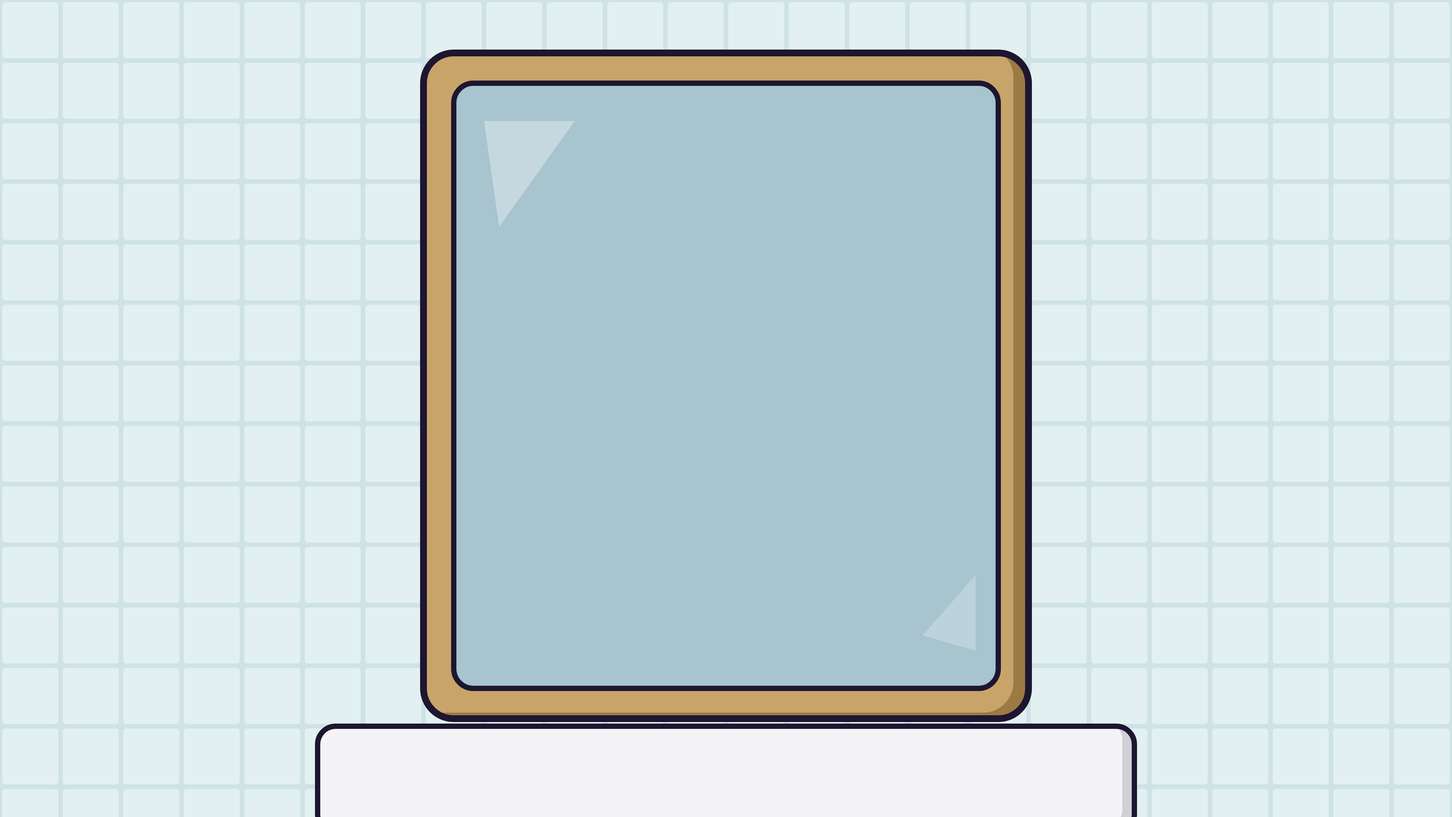
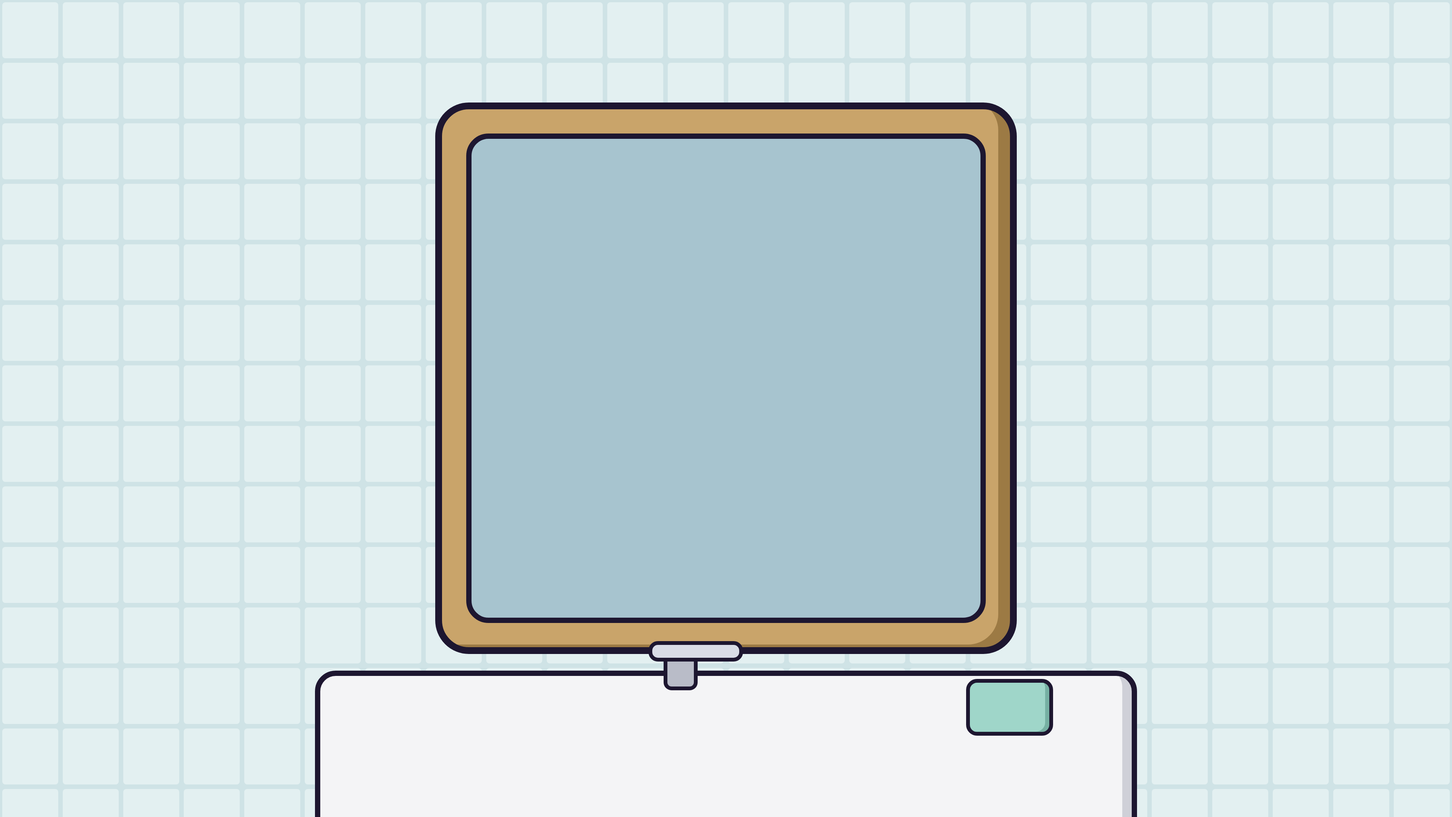
Crypto EP1: revisión de calidad (cara, espejo, despertador, taza, HUD, Satoshi, monitores)
Claude-Session: https://claude.ai/code/session_01NdJoAuEd2J5WPj3QMUukBN

Changed region(s): [[0.2188, 0.062, 0.7812, 0.8995]]

diff --git a/crypto-pov/layers/_tmp.html b/crypto-pov/layers/_tmp.html
@@ -7,4 +7,4 @@
 <filter id="blur40" x="-50%" y="-50%" width="200%" height="200%"><feGaussianBlur stdDeviation="40"/></filter>
 <filter id="drop" x="-10%" y="-10%" width="130%" height="130%"><feDropShadow dx="0" dy="14" stdDeviation="12" flood-color="#000" flood-opacity="0.35"/></filter>
 <filter id="tex" x="0" y="0" width="100%" height="100%"><feTurbulence type="fractalNoise" baseFrequency="0.035" numOctaves="4" seed="8"/><feColorMatrix type="matrix" values="0 0 0 0 0  0 0 0 0 0  0 0 0 0 0  0 0 0 0.16 0"/><feComposite in2="SourceGraphic" operator="in"/></filter>
-</defs><clipPath id="c28"><path d="M90 1100 L100 820 Q110 660 260 620 Q360 596 460 620 Q610 660 620 820 L630 1100Z"/></clipPath><g clip-path="url(#c28)"><path d="M90 1100 L100 820 Q110 660 260 620 Q360 596 460 620 Q610 660 620 820 L630 1100Z" fill="#8a2f29"/><g transform="translate(-50,-10)"><path d="M90 1100 L100 820 Q110 660 260 620 Q360 596 460 620 Q610 660 620 820 L630 1100Z" fill="#b9463d"/></g><g transform="translate(-110.00000000000001,-22.0)" opacity="0.55"><path d="M90 1100 L100 820 Q110 660 260 620 Q360 596 460 620 Q610 660 620 820 L630 1100Z" fill="#d65c51"/></g><g transform="translate(-70.0,-14.0)"><path d="M90 1100 L100 820 Q110 660 260 620 Q360 596 460 620 Q610 660 620 820 L630 1100Z" fill="#b9463d"/></g></g><path d="M90 1100 L100 820 Q110 660 260 620 Q360 596 460 620 Q610 660 620 820 L630 1100Z" fill="none" stroke="#1d1630" stroke-width="8" stroke-linejoin="round"/><clipPath id="plaid"><path d="M90 1100 L100 820 Q110 660 260 620 Q360 596 460 620 Q610 660 620 820 L630 1100Z"/></clipPath><g clip-path="url(#plaid)"><path d="M140 600 L140 1100" stroke="#7a2520" stroke-width="10" opacity="0.5"/><path d="M210 600 L210 1100" stroke="#7a2520" stroke-width="10" opacity="0.5"/><path d="M280 600 L280 1100" stroke="#7a2520" stroke-width="10" opacity="0.5"/><path d="M350 600 L350 1100" stroke="#7a2520" stroke-width="10" opacity="0.5"/><path d="M420 600 L420 1100" stroke="#7a2520" stroke-width="10" opacity="0.5"/><path d="M490 600 L490 1100" stroke="#7a2520" stroke-width="10" opacity="0.5"/><path d="M560 600 L560 1100" stroke="#7a2520" stroke-width="10" opacity="0.5"/><path d="M80 680 L640 680" stroke="#7a2520" stroke-width="10" opacity="0.5"/><path d="M80 750 L640 750" stroke="#7a2520" stroke-width="10" opacity="0.5"/><path d="M80 820 L640 820" stroke="#7a2520" stroke-width="10" opacity="0.5"/><path d="M80 890 L640 890" stroke="#7a2520" stroke-width="10" opacity="0.5"/><path d="M80 960 L640 960" stroke="#7a2520" stroke-width="10" opacity="0.5"/><path d="M80 1030 L640 1030" stroke="#7a2520" stroke-width="10" opacity="0.5"/></g><path d="M90 1100 L100 820 Q110 660 260 620 Q360 596 460 620 Q610 660 620 820 L630 1100Z" fill="none" stroke="#1d1630" stroke-width="8"/><clipPath id="c29"><path d="M300 620 L360 700 L420 620 L400 600 L360 650 L320 600Z"/></clipPath><g clip-path="url(#c29)"><path d="M300 620 L360 700 L420 620 L400 600 L360 650 L320 600Z" fill="#cfc7b4"/><g transform="translate(-8,0)"><path d="M300 620 L360 700 L420 620 L400 600 L360 650 L320 600Z" fill="#f1ece0"/></g></g><path d="M300 620 L360 700 L420 620 L400 600 L360 650 L320 600Z" fill="none" stroke="#1d1630" stroke-width="6" stroke-linejoin="round"/><g transform="translate(10,140)"><clipPath id="c30"><rect x="305" y="380" width="90" height="110" rx="10"/></clipPath><g clip-path="url(#c30)"><rect x="305" y="380" width="90" height="110" rx="10" fill="#b97b54"/><g transform="translate(-14,0)"><rect x="305" y="380" width="90" height="110" rx="10" fill="#d8996f"/></g></g><rect x="305" y="380" width="90" height="110" rx="10" fill="none" stroke="#1d1630" stroke-width="6" stroke-linejoin="round"/><clipPath id="c31"><ellipse cx="233.60000000000002" cy="322" rx="28" ry="38"/></clipPath><g clip-path="url(#c31)"><ellipse cx="233.60000000000002" cy="322" rx="28" ry="38" fill="#d8996f"/><g transform="translate(-10,-4)"><ellipse cx="233.60000000000002" cy="322" rx="28" ry="38" fill="#f3c29b"/></g></g><ellipse cx="233.60000000000002" cy="322" rx="28" ry="38" fill="none" stroke="#1d1630" stroke-width="6" stroke-linejoin="round"/><path d="M225.60000000000002 308 Q239.60000000000002 322 227.60000000000002 338" stroke="#d8996f" stroke-width="6" fill="none"/><clipPath id="c32"><ellipse cx="466.4" cy="322" rx="28" ry="38"/></clipPath><g clip-path="url(#c32)"><ellipse cx="466.4" cy="322" rx="28" ry="38" fill="#d8996f"/><g transform="translate(10,-4)"><ellipse cx="466.4" cy="322" rx="28" ry="38" fill="#f3c29b"/></g></g><ellipse cx="466.4" cy="322" rx="28" ry="38" fill="none" stroke="#1d1630" stroke-width="6" stroke-linejoin="round"/><path d="M474.4 308 Q460.4 322 472.4 338" stroke="#d8996f" stroke-width="6" fill="none"/><clipPath id="c33"><ellipse cx="350" cy="310" rx="120" ry="132.0"/></clipPath><g clip-path="url(#c33)"><ellipse cx="350" cy="310" rx="120" ry="132.0" fill="#d8996f"/><g transform="translate(-34,-16)"><ellipse cx="350" cy="310" rx="120" ry="132.0" fill="#f3c29b"/></g><g transform="translate(-74.80000000000001,-35.2)" opacity="0.55"><ellipse cx="350" cy="310" rx="120" ry="132.0" fill="#ffdcbf"/></g><g transform="translate(-47.599999999999994,-22.4)"><ellipse cx="350" cy="310" rx="120" ry="132.0" fill="#f3c29b"/></g></g><ellipse cx="350" cy="310" rx="120" ry="132.0" fill="none" stroke="#1d1630" stroke-width="7" stroke-linejoin="round"/><clipPath id="c34"><path d="M232 300 Q226 200 280 170 L300 250 Q270 260 262 320Z"/></clipPath><g clip-path="url(#c34)"><path d="M232 300 Q226 200 280 170 L300 250 Q270 260 262 320Z" fill="#4b4b52"/><g transform="translate(8,0)"><path d="M232 300 Q226 200 280 170 L300 250 Q270 260 262 320Z" fill="#6b6b72"/></g></g><path d="M232 300 Q226 200 280 170 L300 250 Q270 260 262 320Z" fill="none" stroke="#1d1630" stroke-width="6" stroke-linejoin="round"/><clipPath id="c35"><path d="M468 300 Q474 200 420 170 L400 250 Q430 260 438 320Z"/></clipPath><g clip-path="url(#c35)"><path d="M468 300 Q474 200 420 170 L400 250 Q430 260 438 320Z" fill="#4b4b52"/><g transform="translate(-8,0)"><path d="M468 300 Q474 200 420 170 L400 250 Q430 260 438 320Z" fill="#6b6b72"/></g></g><path d="M468 300 Q474 200 420 170 L400 250 Q430 260 438 320Z" fill="none" stroke="#1d1630" stroke-width="6" stroke-linejoin="round"/><path d="M290 190 Q350 170 410 190" stroke="#6b6b72" stroke-width="10" fill="none" stroke-linecap="round"/><path d="M286 314 Q305 296 324 314 M376 314 Q395 296 414 314" stroke="#1d1630" stroke-width="8" fill="none" stroke-linecap="round"/><path d="M278 268 Q305 252 334 262 M366 262 Q395 252 422 268" stroke="#4b4b52" stroke-width="11" fill="none" stroke-linecap="round"/><path d="M296 398 Q350 480 404 398Z" fill="#7a2a2a" stroke="#1d1630" stroke-width="7"/><path d="M310 404 L390 404" stroke="#fff" stroke-width="10"/><path d="M262 340 Q250 360 256 380" stroke="#9fdcff" stroke-width="6" fill="none"/><rect x="268" y="288" width="74" height="54" rx="14" fill="#fff" fill-opacity="0.15" stroke="#1d1630" stroke-width="6"/><rect x="358" y="288" width="74" height="54" rx="14" fill="#fff" fill-opacity="0.15" stroke="#1d1630" stroke-width="6"/><path d="M342 312 L358 312" stroke="#1d1630" stroke-width="6"/><clipPath id="c36"><path d="M346 326 Q376 366 356 386 Q338 392 328 380 Q332 356 346 326Z"/></clipPath><g clip-path="url(#c36)"><path d="M346 326 Q376 366 356 386 Q338 392 328 380 Q332 356 346 326Z" fill="#d8996f"/><g transform="translate(-6,-4)"><path d="M346 326 Q376 366 356 386 Q338 392 328 380 Q332 356 346 326Z" fill="#f3c29b"/></g></g><path d="M346 326 Q376 366 356 386 Q338 392 328 380 Q332 356 346 326Z" fill="none" stroke="#1d1630" stroke-width="5" stroke-linejoin="round"/><clipPath id="c37"><path d="M300 380 Q350 360 400 380 Q380 396 350 390 Q320 396 300 380Z"/></clipPath><g clip-path="url(#c37)"><path d="M300 380 Q350 360 400 380 Q380 396 350 390 Q320 396 300 380Z" fill="#4b4b52"/><g transform="translate(-6,-2)"><path d="M300 380 Q350 360 400 380 Q380 396 350 390 Q320 396 300 380Z" fill="#6b6b72"/></g></g><path d="M300 380 Q350 360 400 380 Q380 396 350 390 Q320 396 300 380Z" fill="none" stroke="#1d1630" stroke-width="5" stroke-linejoin="round"/></g></svg></body></html>
+</defs><clipPath id="c11"><path d="M90 1100 L100 820 Q110 660 260 620 Q360 596 460 620 Q610 660 620 820 L630 1100Z"/></clipPath><g clip-path="url(#c11)"><path d="M90 1100 L100 820 Q110 660 260 620 Q360 596 460 620 Q610 660 620 820 L630 1100Z" fill="#8a2f29"/><g transform="translate(-50,-10)"><path d="M90 1100 L100 820 Q110 660 260 620 Q360 596 460 620 Q610 660 620 820 L630 1100Z" fill="#b9463d"/></g><g transform="translate(-110.00000000000001,-22.0)" opacity="0.55"><path d="M90 1100 L100 820 Q110 660 260 620 Q360 596 460 620 Q610 660 620 820 L630 1100Z" fill="#d65c51"/></g><g transform="translate(-70.0,-14.0)"><path d="M90 1100 L100 820 Q110 660 260 620 Q360 596 460 620 Q610 660 620 820 L630 1100Z" fill="#b9463d"/></g></g><path d="M90 1100 L100 820 Q110 660 260 620 Q360 596 460 620 Q610 660 620 820 L630 1100Z" fill="none" stroke="#1d1630" stroke-width="8" stroke-linejoin="round"/><clipPath id="plaid"><path d="M90 1100 L100 820 Q110 660 260 620 Q360 596 460 620 Q610 660 620 820 L630 1100Z"/></clipPath><g clip-path="url(#plaid)"><path d="M140 600 L140 1100" stroke="#7a2520" stroke-width="10" opacity="0.5"/><path d="M210 600 L210 1100" stroke="#7a2520" stroke-width="10" opacity="0.5"/><path d="M280 600 L280 1100" stroke="#7a2520" stroke-width="10" opacity="0.5"/><path d="M350 600 L350 1100" stroke="#7a2520" stroke-width="10" opacity="0.5"/><path d="M420 600 L420 1100" stroke="#7a2520" stroke-width="10" opacity="0.5"/><path d="M490 600 L490 1100" stroke="#7a2520" stroke-width="10" opacity="0.5"/><path d="M560 600 L560 1100" stroke="#7a2520" stroke-width="10" opacity="0.5"/><path d="M80 680 L640 680" stroke="#7a2520" stroke-width="10" opacity="0.5"/><path d="M80 750 L640 750" stroke="#7a2520" stroke-width="10" opacity="0.5"/><path d="M80 820 L640 820" stroke="#7a2520" stroke-width="10" opacity="0.5"/><path d="M80 890 L640 890" stroke="#7a2520" stroke-width="10" opacity="0.5"/><path d="M80 960 L640 960" stroke="#7a2520" stroke-width="10" opacity="0.5"/><path d="M80 1030 L640 1030" stroke="#7a2520" stroke-width="10" opacity="0.5"/></g><path d="M90 1100 L100 820 Q110 660 260 620 Q360 596 460 620 Q610 660 620 820 L630 1100Z" fill="none" stroke="#1d1630" stroke-width="8"/><clipPath id="c12"><path d="M300 620 L360 700 L420 620 L400 600 L360 650 L320 600Z"/></clipPath><g clip-path="url(#c12)"><path d="M300 620 L360 700 L420 620 L400 600 L360 650 L320 600Z" fill="#cfc7b4"/><g transform="translate(-8,0)"><path d="M300 620 L360 700 L420 620 L400 600 L360 650 L320 600Z" fill="#f1ece0"/></g></g><path d="M300 620 L360 700 L420 620 L400 600 L360 650 L320 600Z" fill="none" stroke="#1d1630" stroke-width="6" stroke-linejoin="round"/><g transform="translate(10,140)"><clipPath id="c13"><rect x="305" y="380" width="90" height="110" rx="10"/></clipPath><g clip-path="url(#c13)"><rect x="305" y="380" width="90" height="110" rx="10" fill="#b97b54"/><g transform="translate(-14,0)"><rect x="305" y="380" width="90" height="110" rx="10" fill="#d8996f"/></g></g><rect x="305" y="380" width="90" height="110" rx="10" fill="none" stroke="#1d1630" stroke-width="6" stroke-linejoin="round"/><clipPath id="c14"><ellipse cx="233.60000000000002" cy="322" rx="28" ry="38"/></clipPath><g clip-path="url(#c14)"><ellipse cx="233.60000000000002" cy="322" rx="28" ry="38" fill="#d8996f"/><g transform="translate(-10,-4)"><ellipse cx="233.60000000000002" cy="322" rx="28" ry="38" fill="#f3c29b"/></g></g><ellipse cx="233.60000000000002" cy="322" rx="28" ry="38" fill="none" stroke="#1d1630" stroke-width="6" stroke-linejoin="round"/><path d="M225.60000000000002 308 Q239.60000000000002 322 227.60000000000002 338" stroke="#d8996f" stroke-width="6" fill="none"/><clipPath id="c15"><ellipse cx="466.4" cy="322" rx="28" ry="38"/></clipPath><g clip-path="url(#c15)"><ellipse cx="466.4" cy="322" rx="28" ry="38" fill="#d8996f"/><g transform="translate(10,-4)"><ellipse cx="466.4" cy="322" rx="28" ry="38" fill="#f3c29b"/></g></g><ellipse cx="466.4" cy="322" rx="28" ry="38" fill="none" stroke="#1d1630" stroke-width="6" stroke-linejoin="round"/><path d="M474.4 308 Q460.4 322 472.4 338" stroke="#d8996f" stroke-width="6" fill="none"/><clipPath id="c16"><ellipse cx="350" cy="310" rx="120" ry="132.0"/></clipPath><g clip-path="url(#c16)"><ellipse cx="350" cy="310" rx="120" ry="132.0" fill="#d8996f"/><g transform="translate(-34,-16)"><ellipse cx="350" cy="310" rx="120" ry="132.0" fill="#f3c29b"/></g><g transform="translate(-74.80000000000001,-35.2)" opacity="0.55"><ellipse cx="350" cy="310" rx="120" ry="132.0" fill="#ffdcbf"/></g><g transform="translate(-47.599999999999994,-22.4)"><ellipse cx="350" cy="310" rx="120" ry="132.0" fill="#f3c29b"/></g></g><ellipse cx="350" cy="310" rx="120" ry="132.0" fill="none" stroke="#1d1630" stroke-width="7" stroke-linejoin="round"/><clipPath id="c17"><path d="M234 318 Q226 248 252 214 Q270 200 284 210 Q262 246 266 322Z"/></clipPath><g clip-path="url(#c17)"><path d="M234 318 Q226 248 252 214 Q270 200 284 210 Q262 246 266 322Z" fill="#66666e"/><g transform="translate(6,0)"><path d="M234 318 Q226 248 252 214 Q270 200 284 210 Q262 246 266 322Z" fill="#8a8a92"/></g></g><path d="M234 318 Q226 248 252 214 Q270 200 284 210 Q262 246 266 322Z" fill="none" stroke="#1d1630" stroke-width="6" stroke-linejoin="round"/><clipPath id="c18"><path d="M466 318 Q474 248 448 214 Q430 200 416 210 Q438 246 434 322Z"/></clipPath><g clip-path="url(#c18)"><path d="M466 318 Q474 248 448 214 Q430 200 416 210 Q438 246 434 322Z" fill="#66666e"/><g transform="translate(-6,0)"><path d="M466 318 Q474 248 448 214 Q430 200 416 210 Q438 246 434 322Z" fill="#8a8a92"/></g></g><path d="M466 318 Q474 248 448 214 Q430 200 416 210 Q438 246 434 322Z" fill="none" stroke="#1d1630" stroke-width="6" stroke-linejoin="round"/><path d="M318 196 Q350 186 382 196" stroke="#8a8a92" stroke-width="8" fill="none" stroke-linecap="round"/><path d="M286 314 Q305 296 324 314 M376 314 Q395 296 414 314" stroke="#1d1630" stroke-width="8" fill="none" stroke-linecap="round"/><path d="M278 268 Q305 252 334 262 M366 262 Q395 252 422 268" stroke="#4b4b52" stroke-width="11" fill="none" stroke-linecap="round"/><path d="M296 398 Q350 480 404 398Z" fill="#7a2a2a" stroke="#1d1630" stroke-width="7"/><path d="M310 404 L390 404" stroke="#fff" stroke-width="10"/><path d="M262 340 Q250 360 256 380" stroke="#9fdcff" stroke-width="6" fill="none"/><rect x="268" y="288" width="74" height="54" rx="14" fill="#fff" fill-opacity="0.15" stroke="#1d1630" stroke-width="6"/><rect x="358" y="288" width="74" height="54" rx="14" fill="#fff" fill-opacity="0.15" stroke="#1d1630" stroke-width="6"/><path d="M342 312 L358 312" stroke="#1d1630" stroke-width="6"/><clipPath id="c19"><path d="M346 326 Q376 366 356 386 Q338 392 328 380 Q332 356 346 326Z"/></clipPath><g clip-path="url(#c19)"><path d="M346 326 Q376 366 356 386 Q338 392 328 380 Q332 356 346 326Z" fill="#d8996f"/><g transform="translate(-6,-4)"><path d="M346 326 Q376 366 356 386 Q338 392 328 380 Q332 356 346 326Z" fill="#f3c29b"/></g></g><path d="M346 326 Q376 366 356 386 Q338 392 328 380 Q332 356 346 326Z" fill="none" stroke="#1d1630" stroke-width="5" stroke-linejoin="round"/><clipPath id="c20"><path d="M300 380 Q350 360 400 380 Q380 396 350 390 Q320 396 300 380Z"/></clipPath><g clip-path="url(#c20)"><path d="M300 380 Q350 360 400 380 Q380 396 350 390 Q320 396 300 380Z" fill="#4b4b52"/><g transform="translate(-6,-2)"><path d="M300 380 Q350 360 400 380 Q380 396 350 390 Q320 396 300 380Z" fill="#6b6b72"/></g></g><path d="M300 380 Q350 360 400 380 Q380 396 350 390 Q320 396 300 380Z" fill="none" stroke="#1d1630" stroke-width="5" stroke-linejoin="round"/></g></svg></body></html>

diff --git a/crypto-pov/render.py b/crypto-pov/render.py
@@ -188,7 +188,7 @@ def etiqueta(c, T, t0, s, cx, cy, fill=YEL, fg=OL, size=36):
     if T < t0: return
     u = popscale(T, t0); d = ImageDraw.Draw(c); f = font(F_UI, size); tw = d.textlength(s, font=f)
     d.rounded_rectangle((cx - (tw / 2 + 22) * u, cy - 34, cx + (tw / 2 + 22) * u, cy + 34), 14, fill=fill, outline=OL, width=4)
-    if u > .5: d.text((cx, cy), s, font=f, fill=fg, anchor="mm")
+    if T - t0 > .2: d.text((cx, cy), s, font=f, fill=fg, anchor="mm")
 
 def flecha_a(d, x0, y0, x1, y1, col=YEL, w=10):
     d.line((x0, y0, x1, y1), fill=col, width=w)
@@ -247,8 +247,8 @@ def draw_caption(canvas, T):
             x += wd
         if who in TAGS:
             tag = TAGS[who]; ft = font(F_UI, 28); tw = d.textlength(tag, font=ft)
-            d.rounded_rectangle((W / 2 - tw / 2 - 18, 868, W / 2 + tw / 2 + 18, 910), 12, fill=CYAN if who == "Y" else YEL)
-            d.text((W / 2, 889), tag, font=ft, fill=OL, anchor="mm")
+            d.rounded_rectangle((W / 2 - tw / 2 - 18, 846, W / 2 + tw / 2 + 18, 888), 12, fill=CYAN if who == "Y" else YEL)
+            d.text((W / 2, 867), tag, font=ft, fill=OL, anchor="mm")
         return
 
 # ---------------------------------------------------------------- barra superior de la serie
@@ -289,7 +289,7 @@ def draw_hud(canvas, T):
     elif T < S("N16"): fecha, hora, tf = "JAN 9, 2009", "11:47 PM", S("N12")
     else: fecha, hora, tf = "JAN 10, 2009", "3:12 AM", S("N16")
     d.text((176, 69), fecha, font=font(F_ANTON, 40 * pop(tf)), fill=WHITE, anchor="lm")
-    d.text((176 + d.textlength(fecha, font=font(F_ANTON, 40)) + 22, 70), hora, font=font(F_UI, 26), fill=GRIS, anchor="lm")
+    d.text((400, 70), hora, font=font(F_UI, 26), fill=GRIS, anchor="lm")
     # precio BTC
     t_p = WT("N09", "zero"); on = T >= t_p
     btc_icon(d, 600, 69, 20, on)
@@ -324,7 +324,7 @@ def sc_hook(T):
     c.alpha_composite(ov.filter(ImageFilter.GaussianBlur(2)))
     t26, t09 = WT("N01", "2026"), WT("N01", "2009")
     if T < t09:
-        yr = "2026"; u = popscale(T, t26)
+        yr = "2026"; u = popscale(T, .05, .45)
     else:
         u2 = clamp((T - t09) / .7)
         yr = str(int(round(2026 - 17 * ease(u2)))); u = 1
@@ -332,8 +332,8 @@ def sc_hook(T):
     gd.text((W / 2, H / 2 - 40), yr, font=font(F_ANTON, 330 * max(u, .01)), fill=ORG + (255,), anchor="mm")
     c.alpha_composite(gl.filter(ImageFilter.GaussianBlur(18))); c.alpha_composite(gl)
     d = ImageDraw.Draw(c)
-    if T >= t26: d.text((W / 2, H / 2 - 40), yr, font=font(F_ANTON, 330 * max(u, .01)), fill=WHITE, anchor="mm")
-    if T >= t26: etiqueta(c, T, t26, "YOU GO TO SLEEP", W / 2, 180, CYAN)
+    if T >= .05: d.text((W / 2, H / 2 - 40), yr, font=font(F_ANTON, 330 * max(u, .01)), fill=WHITE, anchor="mm")
+    if .1 <= T < t09: etiqueta(c, T, .1, "YOU GO TO SLEEP", W / 2, 180, CYAN)
     if T >= t09: etiqueta(c, T, t09, "YOU WAKE UP", W / 2, 180, YEL)
     tb = WT("N01", "bitcoin")
     if T >= tb:
@@ -346,16 +346,18 @@ def sc_alarma(T):
     c = bg("bg_bedroom", T, s0, 1.9, 1.75, 3, .38, .78)
     ring = s0 - .3 <= T < WT("N02", "phone", fin=True) + .6
     sh = 8 * math.sin(T * 60) if ring else 0
-    put(c, "alarma", 905 + sh, 470, 1.6, rot=sh * .8)
+    z = 1.9 - .15 * ease_io((T - s0) / 3); x0 = (W - W / z) * .38; y0 = (H - H / z) * .78
+    ax, ay = (800 - x0) * z, (632 - y0) * z
+    put(c, "alarma", ax + sh, ay, 150 * z / 300, rot=sh * .8)
     if ring:
         d = ImageDraw.Draw(c)
         for k in range(3):
             a = (T * 3 + k / 3) % 1
-            r = 170 + a * 140
-            d.arc((905 - r, 470 - r, 905 + r, 470 + r), 200, 250, fill=(255, 255, 255, int(255 * (1 - a))), width=8)
-            d.arc((905 - r, 470 - r, 905 + r, 470 + r), 290, 340, fill=(255, 255, 255, int(255 * (1 - a))), width=8)
+            r = 90 * z + a * 140
+            d.arc((ax - r, ay - r, ax + r, ay + r), 200, 250, fill=(255, 255, 255, int(255 * (1 - a))), width=8)
+            d.arc((ax - r, ay - r, ax + r, ay + r), 290, 340, fill=(255, 255, 255, int(255 * (1 - a))), width=8)
         stamp(c, T, s0 - .2, "RIIIING!", 1450, 300, YEL, 8, 110)
-    etiqueta(c, T, WT("N02", "real"), "A REAL ALARM CLOCK", 905, 860, YEL)
+    etiqueta(c, T, WT("N02", "real"), "A REAL ALARM CLOCK", ax, ay - 190, YEL)
     return c
 
 def sc_cuarto(T):
@@ -391,24 +393,24 @@ def sc_movil(T):
 
 def sc_espejo(T):
     s0 = S("N05")
-    c = bg("bg_espejo", T, s0, 1.0, 1.12, 4, .5, .4)
-    # reflejo recortado al espejo (600,110 -> 1320,910 en el fondo a 1x, ajustado al zoom)
-    z = 1.0 + .12 * ease_io((T - s0) / 4)
-    x0 = (W - W / z) * .5; y0 = (H - H / z) * .4
-    mx0, my0, mx1, my1 = [(v - o) * z for v, o in ((600, x0), (110, y0), (1320, x0), (910, y0))]
+    c = bg("bg_espejo", T, s0, 1.0, 1.06, 4, .5, .5)
+    z = 1.0 + .06 * ease_io((T - s0) / 4)
+    x0 = (W - W / z) * .5; y0 = (H - H / z) * .5
+    mx0, my0, mx1, my1 = [(v - o) * z for v, o in ((620, x0), (180, y0), (1300, x0), (820, y0))]
     ref = Image.new("RGBA", (W, H), (0, 0, 0, 0))
     tr = WT("N05", "19")
     nm = "heroe_shock" if T >= WT("N05", "mirror") else "heroe_miedo"
     jump = 18 * math.sin(clamp((T - tr) / .3) * PI_) if T >= tr else 0
-    put(ref, nm, (mx0 + mx1) / 2, my1 - 330 * z - jump, 1.25 * z)
+    put(ref, nm, (mx0 + mx1) / 2, my0 + 430 * z - jump, 1.15 * z)
     m = Image.new("L", (W, H), 0); ImageDraw.Draw(m).rounded_rectangle((mx0 + 4, my0 + 4, mx1 - 4, my1 - 4), int(24 * z), fill=255)
     tint = Image.new("RGBA", (W, H), (167, 196, 207, 60)); ref.alpha_composite(tint)
     c.paste(ref, (0, 0), Image.composite(ref.getchannel("A"), Image.new("L", (W, H), 0), m))
     d = ImageDraw.Draw(c)
-    d.polygon([(mx0 + 40, my0 + 50), (mx0 + 160, my0 + 50), (mx0 + 60, my0 + 190)], fill=(255, 255, 255, 70))
+    gl_ = Image.new("RGBA", (W, H), (0, 0, 0, 0)); ImageDraw.Draw(gl_).polygon([(mx0 + 30, my0 + 30), (mx0 + 150, my0 + 30), (mx0 + 30, my0 + 170)], fill=(255, 255, 255, 80))
+    c.alpha_composite(gl_)
     if T >= tr:
-        stamp(c, T, tr, "AGE: 19", 1640, 520, YEL, -8, 120)
-        etiqueta(c, T, tr + .25, "AGAIN.", 1640, 700, RED, WHITE, 40)
+        stamp(c, T, tr, "AGE: 19", 1650, 480, YEL, -8, 120)
+        etiqueta(c, T, tr + .25, "AGAIN.", 1650, 660, RED, WHITE, 40)
     return c
 
 def tv_noticias(c, T, x, y, w, h, t0):
@@ -462,18 +464,21 @@ def sc_satoshi(T):
         u = ease((T - tn) / .5); put(c, "nakamoto", 520, 640 + 80 * (1 - u), .9, alpha=u)
         etiqueta(c, T, tn + .2, "SATOSHI NAKAMOTO", 520, 230, ORG, WHITE, 40)
         etiqueta(c, T, tn + .5, "IDENTITY: UNKNOWN", 520, 990 - 120, (40, 40, 60), WHITE, 26) if False else None
-    tb = WT("N07", "block")
+    tdays = WT("N07", "six")
+    if tdays <= T < tn: 
+        u = popscale(T, tdays); text(d, (W / 2, 470), "6 DAYS AGO", 200 * u, ORG, stroke=10)
+        text(d, (W / 2, 640), "JANUARY 3, 2009", 60 * u, WHITE, f=F_ANTON)
     if T >= WT("N07", "first"):
         u = popscale(T, WT("N07", "first"))
-        panel(c, (980, 330, 980 + 780 * u, 700), (250, 246, 235), 250, 22, OL, 6)
+        panel(c, (980, 260, 980 + 780 * u, 610), (250, 246, 235), 250, 22, OL, 6)
         if u > .6:
-            text(d, (1370, 400), "BLOCK #0", 64, OL)
-            text(d, (1370, 470), "\"THE GENESIS BLOCK\"", 40, ORG)
-            text(d, (1370, 545), "MINED: JAN 3, 2009", 34, (90, 80, 100), f=F_UI)
-            text(d, (1370, 610), "REWARD: 50 BTC", 34, (90, 80, 100), f=F_UI)
+            text(d, (1370, 325), "BLOCK #0", 64, OL)
+            text(d, (1370, 395), "\"THE GENESIS BLOCK\"", 40, ORG)
+            text(d, (1370, 470), "MINED: JAN 3, 2009", 34, (90, 80, 100), f=F_UI)
+            text(d, (1370, 535), "REWARD: 50 BTC", 34, (90, 80, 100), f=F_UI)
     tk = WT("N08", "nobody")
     if T >= tk:
-        stamp(c, T, tk, "ALMOST NOBODY KNOWS", 1370, 840, RED, -4, 80)
+        stamp(c, T, tk, "ALMOST NOBODY KNOWS", 1370, 745, RED, -4, 76)
     return c
 
 def sc_precio(T):
@@ -537,15 +542,15 @@ def sc_papa(T):
     put(c, "heroe_decidido", 330, 720, 1.25)
     # taza: se cae al reírse
     tr = S("D02") + .35
-    if T < tr: put(c, "taza", 1080, 860, .75)
+    if T >= tr + .25:
+        ov = Image.new("RGBA", (W, H), (0, 0, 0, 0)); od = ImageDraw.Draw(ov)
+        sp = ease((T - tr - .25) / .5)
+        od.ellipse((860 - 120 * sp, 728 - 8 * sp, 900 + 130 * sp, 742 + 8 * sp), fill=(90, 51, 32, 235), outline=OL, width=4)
+        c.alpha_composite(ov)
+    if T < tr: put(c, "taza", 880, 652, .7)
     else:
-        u = clamp((T - tr) / .45)
-        put(c, "taza", 1080 - 90 * u, 860 + 120 * ease(u), .75, rot=80 * ease(u))
-        if u > .6:
-            ov = Image.new("RGBA", (W, H), (0, 0, 0, 0)); od = ImageDraw.Draw(ov)
-            sp = ease((T - tr - .27) / .4)
-            od.ellipse((900 - 180 * sp, 990 - 30 * sp, 1080 + 120 * sp, 1010 + 26 * sp), fill=(90, 51, 32, 230), outline=OL, width=5)
-            c.alpha_composite(ov)
+        u = clamp((T - tr) / .35)
+        put(c, "taza", 880 + 40 * ease(u), 652 + 40 * ease(u), .7, rot=-85 * ease(u))
     if TL["D02"][3] is None and T >= S("D02"):
         u = popscale(T, S("D02")); d = ImageDraw.Draw(c)
         bx, by = 1340, 250
@@ -676,7 +681,7 @@ def sc_pc(T):
 def sc_cara(T, nombre, t0, luz=True, latido=False):
     c = bg("bg_noche", T, t0, 1.35, 1.45, 5, .5, .5).filter(ImageFilter.GaussianBlur(6))
     pul = 1 + (.025 * max(0, math.sin(T * 2 * PI_ * 1.1)) ** 8 if latido else 0)
-    put(c, nombre, W / 2, 640, 1.55 * pul)
+    put(c, nombre, W / 2, 720, 1.3 * pul)
     if luz:
         ov = Image.new("RGBA", (W, H), (0, 0, 0, 0)); od = ImageDraw.Draw(ov)
         od.ellipse((W / 2 - 700, 200, W / 2 + 700, 1300), fill=CYAN + (60,))

diff --git a/crypto-pov/art.py b/crypto-pov/art.py
@@ -135,26 +135,27 @@ def heroe(expr="shock", luz=None):
     b += '<g transform="translate(0,60)">'
     b += neck(305, 360, 90, 110)
     b += face(350, 300, 118)
-    # pelo desordenado con flequillo de lado (2009)
-    hair = ('<path d="M226 300 Q210 170 300 140 Q360 100 440 140 Q500 170 482 260 Q470 230 440 214 '
-            'Q450 250 420 252 Q410 214 330 200 Q260 220 250 300 Q240 330 226 300Z"/>')
-    b += cel(hair, "#4a2f22", "#2f1d15", "#6b4630", -18, -10, 7)
-    b += cel('<path d="M300 200 Q430 160 470 250 Q420 236 380 250 Q340 236 300 200Z"/>', "#4a2f22", "#2f1d15", None, -10, -4, 6)
+    # pelo: casquete con flequillo de lado hacia la derecha (2009)
+    b += cel('<path d="M230 300 Q206 190 280 150 Q350 112 430 138 Q492 162 484 250 Q478 290 468 300 '
+             'Q462 252 440 236 Q396 252 340 236 Q290 238 262 262 Q246 276 240 304Z"/>', "#4a2f22", "#2f1d15", "#6b4630", -18, -10, 7)
+    b += cel('<path d="M250 250 Q290 176 380 168 Q452 166 474 214 Q478 236 462 244 Q430 214 380 220 '
+             'Q320 226 270 262 Q252 268 250 250Z"/>', "#5a3a2a", "#3a2418", "#7a5038", -10, -6, 6)
+    b += '<path d="M300 200 Q350 186 400 192 M330 176 Q380 168 430 178" stroke="#2f1d15" stroke-width="5" fill="none" stroke-linecap="round" opacity="0.6"/>'
     if expr == "shock":
-        b += eye(305, 318, 16) + eye(398, 318, 16)
-        b += '<path d="M276 270 Q305 250 334 266 M370 266 Q398 250 428 270" stroke="#2f1d15" stroke-width="12" fill="none" stroke-linecap="round"/>'
-        b += f'<ellipse cx="352" cy="412" rx="26" ry="34" fill="#5a2a2a" stroke="{OL}" stroke-width="6"/>'
+        b += eye(305, 300, 15) + eye(398, 300, 15)
+        b += '<path d="M280 268 Q305 254 332 264 M372 264 Q398 254 424 268" stroke="#2f1d15" stroke-width="11" fill="none" stroke-linecap="round"/>'
+        b += f'<ellipse cx="351" cy="388" rx="20" ry="25" fill="#6a2a2a" stroke="{OL}" stroke-width="6"/><ellipse cx="351" cy="398" rx="11" ry="8" fill="#e07070"/>'
     elif expr == "miedo":
-        b += eye(305, 318, 15, -3) + eye(398, 318, 15, -3)
-        b += '<path d="M276 262 Q305 274 334 262 M370 262 Q398 274 428 262" stroke="#2f1d15" stroke-width="12" fill="none" stroke-linecap="round"/>'
-        b += f'<path d="M322 418 Q352 404 382 418" stroke="{OL}" stroke-width="7" fill="none" stroke-linecap="round"/>'
-        b += '<path d="M460 300 Q470 330 462 350 Q452 330 460 300Z" fill="#9fdcff" stroke="#1d1630" stroke-width="3"/>'
+        b += eye(305, 302, 14, -3) + eye(398, 302, 14, -3)
+        b += '<path d="M280 266 Q305 274 332 268 M372 268 Q398 274 424 266" stroke="#2f1d15" stroke-width="11" fill="none" stroke-linecap="round"/>'
+        b += f'<path d="M326 392 Q338 382 351 390 Q364 382 378 392" stroke="{OL}" stroke-width="6" fill="none" stroke-linecap="round"/>'
+        b += '<path d="M462 268 Q474 296 464 314 Q452 296 462 268Z" fill="#9fdcff" stroke="#1d1630" stroke-width="3"/>'
     else:  # decidido
-        b += eye(305, 322, 13) + eye(398, 322, 13)
-        b += '<path d="M276 286 Q305 276 334 292 M370 292 Q398 276 428 286" stroke="#2f1d15" stroke-width="12" fill="none" stroke-linecap="round"/>'
-        b += f'<path d="M318 414 Q352 432 388 410" stroke="{OL}" stroke-width="7" fill="none" stroke-linecap="round"/>'
-    b += cel('<path d="M346 330 Q372 366 356 384 Q340 390 330 380 Q332 356 346 330Z"/>', SK, SKS, None, -6, -4, 5)
-    b += '<ellipse cx="270" cy="378" rx="24" ry="14" fill="#e7887a" opacity="0.4"/><ellipse cx="432" cy="378" rx="24" ry="14" fill="#e7887a" opacity="0.4"/>'
+        b += eye(305, 296, 13) + eye(398, 296, 13)
+        b += '<path d="M276 262 Q305 254 334 268 M370 268 Q398 254 428 262" stroke="#2f1d15" stroke-width="11" fill="none" stroke-linecap="round"/>'
+        b += f'<path d="M322 384 Q352 400 384 380" stroke="{OL}" stroke-width="6" fill="none" stroke-linecap="round"/>'
+    b += f'<path d="M352 306 Q344 334 338 346 Q346 356 360 352" stroke="{OL}" stroke-width="5" fill="none" stroke-linecap="round" stroke-linejoin="round"/>'
+    b += '<ellipse cx="272" cy="350" rx="22" ry="13" fill="#e7887a" opacity="0.4"/><ellipse cx="430" cy="350" rx="22" ry="13" fill="#e7887a" opacity="0.4"/>'
     b += '</g>'
     if luz:
         b += f'<rect width="700" height="1000" fill="{luz}" opacity="0.28" style="mix-blend-mode:multiply"/>'
@@ -172,10 +173,11 @@ def bg_espejo():
     for y in range(0, H, 80):
         for x in range(0, W, 80):
             b += f'<rect x="{x+3}" y="{y+3}" width="74" height="74" rx="4" fill="#e3f0f1"/>'
-    b += cel('<rect x="560" y="70" width="800" height="880" rx="40"/>', "#c9a46a", "#9c7a44", "#e6c48a", -20, -8, 9)
-    b += f'<rect x="600" y="110" width="720" height="800" rx="26" fill="#a7c4cf" stroke="{OL}" stroke-width="7"/>'
-    b += '<path d="M640 160 L760 160 L660 300Z" fill="#fff" opacity="0.35"/><path d="M1220 840 L1290 760 L1290 860Z" fill="#fff" opacity="0.25"/>'
-    b += cel(f'<rect x="420" y="960" width="1080" height="140" rx="24"/>', "#f4f4f6", "#cfd0d8", None, -16, -6, 7)
+    b += cel('<rect x="580" y="140" width="760" height="720" rx="40"/>', "#c9a46a", "#9c7a44", "#e6c48a", -20, -8, 9)
+    b += f'<rect x="620" y="180" width="680" height="640" rx="26" fill="#a7c4cf" stroke="{OL}" stroke-width="7"/>'
+    b += cel(f'<rect x="420" y="890" width="1080" height="220" rx="24"/>', "#f4f4f6", "#cfd0d8", None, -16, -6, 7)
+    b += f'<rect x="880" y="860" width="40" height="50" rx="8" fill="#b9bcc8" stroke="{OL}" stroke-width="5"/><rect x="860" y="850" width="120" height="22" rx="10" fill="#d9dce6" stroke="{OL}" stroke-width="5"/>'
+    b += cel(f'<rect x="1280" y="900" width="110" height="70" rx="12"/>', "#9fd6c9", "#76b0a3", None, -8, -3, 5)
     return svg(W, H, b)
 
 
@@ -217,9 +219,9 @@ def papa(expr="serio"):
     b += '<g transform="translate(10,140)">'
     b += neck(305, 380, 90, 110)
     b += face(350, 310, 120)
-    b += cel('<path d="M232 300 Q226 200 280 170 L300 250 Q270 260 262 320Z"/>', "#6b6b72", "#4b4b52", None, 8, 0, 6)
-    b += cel('<path d="M468 300 Q474 200 420 170 L400 250 Q430 260 438 320Z"/>', "#6b6b72", "#4b4b52", None, -8, 0, 6)
-    b += '<path d="M290 190 Q350 170 410 190" stroke="#6b6b72" stroke-width="10" fill="none" stroke-linecap="round"/>'
+    b += cel('<path d="M234 318 Q226 248 252 214 Q270 200 284 210 Q262 246 266 322Z"/>', "#8a8a92", "#66666e", None, 6, 0, 6)
+    b += cel('<path d="M466 318 Q474 248 448 214 Q430 200 416 210 Q438 246 434 322Z"/>', "#8a8a92", "#66666e", None, -6, 0, 6)
+    b += '<path d="M318 196 Q350 186 382 196" stroke="#8a8a92" stroke-width="8" fill="none" stroke-linecap="round"/>'
     if expr == "serio":
         b += eye(305, 312, 11) + eye(395, 312, 11)
         b += '<path d="M278 276 Q305 288 334 278 M366 278 Q395 288 422 276" stroke="#4b4b52" stroke-width="11" fill="none" stroke-linecap="round"/>'
